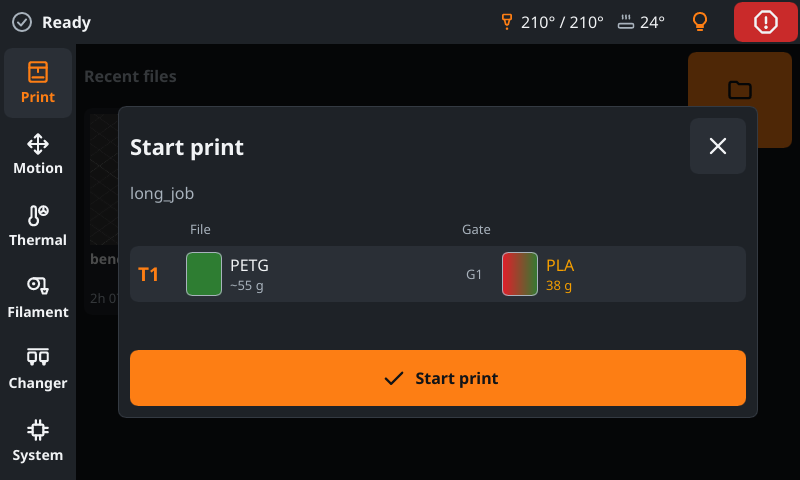
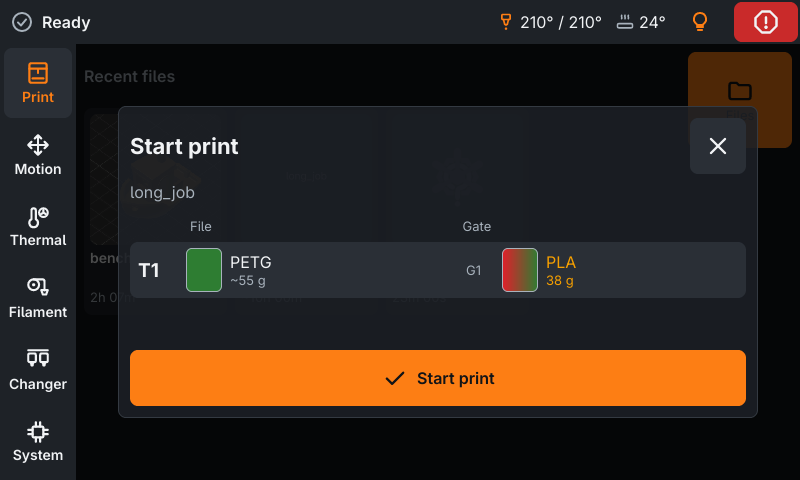
docs: one level for every way to install; refresh screenshots

diff --git a/docs/install.md b/docs/install.md
@@ -3,29 +3,34 @@
 FreakyMate is young software: the note in the [README](../README.md) applies to every build and every way of
 installing it. What the host needs: [Requirements and hardware](hardware.md#requirements).
 
-## Release and pre-release
+Ways to run it: on the [printer host](#printer-host) (the main use case), on an [Android](#android) phone or tablet, as
+[Debian or Arch package](#packages), or in a [desktop window](#desktop-linux-windows) on Linux or Windows.
 
-The [releases page](https://github.com/freakydude/freakymate/releases) offers two kinds of builds:
+## Which build
 
-| Build           | What it is                                                                                                                                  |
-| --------------- | ------------------------------------------------------------------------------------------------------------------------------------------- |
-| **Pre-release** | Always the current state of `main`. Every merged change replaces it, so it has the newest functions first.                                 |
-| **Release**     | From time to time I tag a state of `main` as release `vX.Y.0`, when a set of changes feels finished. Fewer updates, more time in use.       |
+The [releases page](https://github.com/freakydude/freakymate/releases) offers two kinds of builds, and every open pull
+request is built as well:
 
-Neither is an untested nightly: a change only reaches `main` through a reviewed pull request whose automated checks
-(tests, builds and packages for all targets) are green, and a release is a state that was the pre-release before.
-Beyond that, testing on real printers is limited to a few machines (see [Requirements and hardware](hardware.md)), so
-the note in the README applies to both builds.
+| Build            | What it is                                                                          | Where                                                                                            |
+| ---------------- | ----------------------------------------------------------------------------------- | ------------------------------------------------------------------------------------------------ |
+| **Release**      | A tagged state of `main` (`vX.Y.0`), when a set of changes feels finished. Fewer updates, more time in use. | [Releases](https://github.com/freakydude/freakymate/releases/latest), update channel `stable` |
+| **Pre-release**  | Always the latest `main`, replaced by every merged change. The newest functions first.                      | [Releases](https://github.com/freakydude/freakymate/releases), update channel `beta`          |
+| **Pull request** | The state of an open pull request, to try a change before it is merged.             | Artifacts of the pull request's CI run (needs a GitHub login), see below                      |
 
-**Builds of a pull request.** Every open pull request is built as well. The packages (`packages-<target>`, the same
-zips, `.deb` and Arch packages as a release) are listed under Artifacts on the page of its CI run; a pull request from a branch
-of this repository also gets a comment with the link. Downloading them needs a GitHub login.
-Install such a zip by hand as in step 2 below. Moonraker does not offer pull request builds as updates: on the `beta`
-channel the next pre-release replaces it, on `stable` the next release. Pick the release if you want few updates, the
-pre-release if you want to follow the development; the [update channel](#updates-and-channels) decides which one
-Moonraker installs.
+Neither release nor pre-release is an untested nightly: a change only reaches `main` through a reviewed pull request
+whose automated checks (tests, builds and packages for all targets) are green, and a release is a state that was the
+pre-release before. Beyond that, testing on real printers is limited to a few machines (see
+[Requirements and hardware](hardware.md)), so the note in the README applies to both builds. Pick the release if you
+want few updates, the pre-release if you want to follow the development; the
+[update channel](#updates-and-channels) decides which one Moonraker installs.
 
-## Install on the printer host
+**Builds of a pull request.** The packages (`packages-<target>`, the same zips, `.deb` and Arch packages as a release)
+are listed under Artifacts on the page of its CI run; a pull request from a branch of this repository also gets a
+comment with the link. Downloading them needs a GitHub login. Install such a zip by hand as described under
+[Printer host](#printer-host). Moonraker does not offer pull request builds as updates: on the `beta` channel the next
+pre-release replaces it, on `stable` the next release.
+
+## Printer host
 
 This is the main use case: FreakyMate runs on the host of the printer (Raspberry Pi OS, Armbian or another
 Debian- or Ubuntu-based system with the display attached), starts fullscreen on the display at boot and updates itself
@@ -56,7 +61,7 @@ architecture and packages first and stops with a message if something does not f
    ```
 
 2. Or by hand: download the zip for your architecture from the
-   [releases](https://github.com/freakydude/freakymate/releases) (release or pre-release, see above), unpack it and
+   [releases](https://github.com/freakydude/freakymate/releases) (release or pre-release, see [Which build](#which-build)), unpack it and
    run the installer:
 
    ```bash
@@ -68,22 +73,90 @@ architecture and packages first and stops with a message if something does not f
 
    The installer
    - installs the packages from `system-dependencies.json` (among them `cage`, a minimal Wayland kiosk compositor),
-   - copies the program to `~/freakymate` and creates the systemd service `freakymate` (fullscreen on `tty1`). cage
-     needs a DRM/KMS device (`/dev/dri/card*`). Only on systems without one, such as a small display with only a
-     framebuffer driver (fbtft, e.g. `fb_st7796s`), the service uses a fallback instead: FreakyMate draws straight to
-     `/dev/fbN` without cage (`--framebuffer`, software rendering), and the text console is detached from the
-     framebuffer while it runs. Rotate such a display in its driver (e.g. `armbianEnv.txt`); touch rotation is not
-     handled yet. Run the installer again after changing the display,
+   - copies the program to `~/freakymate` and creates the systemd service `freakymate` (fullscreen on `tty1`, through
+     the kiosk compositor `cage`). On systems without a DRM/KMS device it uses the
+     [framebuffer fallback](#framebuffer-fallback) instead. Run the installer again after changing the display,
    - allows brightness and screen standby for the group `video` (udev rule `70-freakymate-backlight.rules`; only
      displays with a controllable backlight have one, see [Configuration](configuration.md#brightness-and-standby)),
    - registers it with Moonraker's update manager (`[update_manager freakymate]` in `moonraker.conf`, service in
      `moonraker.asvc`) and restarts Moonraker.
 
-   Options: `-m <moonraker url>`, `-d <printer_data folder>` (default `~/printer_data`), `-c stable|beta` (update channel, see below).
+   Options: `-m <moonraker url>`, `-d <printer_data folder>` (default `~/printer_data`), `-c stable|beta` (update channel, see [Updates and channels](#updates-and-channels)).
    Run again, it keeps the address and folder of the existing installation unless you give them.
    Settings go to `printer_data/config/freakymate.conf` (TOML), next to the Klipper configs, so they can be edited in
    Mainsail or Fluidd (see [Configuration](configuration.md#settings-file)). The log is `printer_data/logs/freakymate.log` (Mainsail: Machine → logs), see [Configuration](configuration.md#log).
    To remove it again, see [Uninstall](#uninstall).
+
+### Framebuffer fallback
+
+`cage` needs a DRM/KMS device (`/dev/dri/card*`). Small displays with only a framebuffer driver (SPI, fbtft, e.g.
+`fb_st7796s`) have none. On such a system the installer sets up the service differently: FreakyMate draws straight to
+`/dev/fbN` without `cage` (`--framebuffer`, software rendering, see [Configuration](configuration.md#command-line)), and
+the text console is detached from the framebuffer while it runs. Rotate such a display in its driver (e.g.
+`armbianEnv.txt`); touch rotation is not handled yet. This is a fallback: HDMI and DSI displays use the normal kiosk.
+
+## Android
+
+An old Android phone or tablet near the printer can serve as touch screen: the same UI, in landscape. It needs Android
+7.0 or newer on a 64-bit ARM device, and Moonraker must be reachable over the home network (plain `http`/`ws`). So far
+it has been tried in the Android emulator and on a real phone with a printer, not yet on many devices.
+
+1. Download `freakymate-<version>-arm64-v8a-prod-release.apk` from the latest
+   [pre-release](https://github.com/freakydude/freakymate/releases) and open it on the device; allow installing from
+   unknown sources when Android asks.
+2. Updates: add the repository `freakydude/freakymate` to [Obtainium](https://github.com/ImranR98/Obtainium) and enable
+   pre-releases.
+
+For a bug report, Settings has "Export log": it copies the log of the last days into one text file you can attach to the
+issue. On Android 10 and newer it lands in `Download/FreakyMate`; on Android 7 to 9 in the app's own folder
+(`Android/data/de.freakydu.freakymate/files/Download`), which the screen names after the export.
+
+The APK is signed with a release key; `apksigner verify --print-certs <apk>` shows the SHA-256 fingerprint of its
+certificate, which must be <!-- TODO Frank: SHA-256 fingerprint of the release certificate -->.
+
+The APK in the artifacts of a pull request (`…-dev-release.apk`) is a test build: it installs as a separate app,
+FreakyMate Dev, with its own settings, and leaves an installed FreakyMate alone.
+
+## Packages
+
+Besides the Moonraker route there are plain packages for Debian-based and Arch-based systems:
+
+- **Debian package**: each release contains `freakymate_<version>_<arch>.deb` (`amd64`, `arm64`, `armhf`). apt installs
+  the dependencies and removes the package cleanly, but Moonraker does **not** update it, install newer `.deb` files
+  yourself. Use either the zip installer or the package, not both (they would compete for `tty1`).
+
+  ```bash
+  sudo apt install ./freakymate_<version>_arm64.deb
+  sudo systemctl disable getty@tty1                # free tty1 for the kiosk
+  sudo usermod -aG video $USER                  # brightness and standby, if the display has a backlight
+  sudo usermod -aG i2c $USER                    # the same for a monitor on DDC/CI, with `ddcutil` installed
+  sudo systemctl enable --now freakymate@$USER  # fullscreen on tty1 as this user
+  # remove again (stops and disables all freakymate@ instances)
+  sudo apt remove freakymate && sudo systemctl enable getty@tty1
+  ```
+
+- **Arch Linux package**: each release also contains `freakymate-<version>-1-<arch>.pkg.tar.zst` for `x86_64`,
+  `aarch64` and `armv7h` (Arch Linux ARM). It is built in CI from the same binary as the `.deb`, with the same files and kiosk
+  service, and has had little testing. There is no repository: download the file and update by installing the next one.
+  As with the `.deb`, use either the zip installer or the package, not both (they would compete for `tty1`).
+
+  ```bash
+  sudo pacman -U freakymate-<version>-1-x86_64.pkg.tar.zst
+  sudo systemctl disable getty@tty1                # free tty1 for the kiosk
+  sudo systemctl enable --now freakymate@$USER     # fullscreen on tty1 as this user
+  # remove again
+  sudo pacman -R freakymate && sudo systemctl enable getty@tty1
+  ```
+
+## Desktop (Linux, Windows)
+
+On a desktop (Linux PC, Raspberry Pi OS with desktop, Windows) the program opens as a normal window and talks to any
+Moonraker over the network. On Debian and Ubuntu install the [`.deb`](#packages) and start FreakyMate from the
+application menu or with `freakymate` in a terminal (skip the `systemctl` lines, they set up the kiosk); on Windows
+unpack `freakymate-x86_64-pc-windows-msvc.zip` and run `freakymate.exe`. There is no Windows installer yet. Set the
+Moonraker address on System → Settings or with `-m` (default `http://127.0.0.1:7125`). For fullscreen with a mouse,
+switch on Fullscreen on System → Settings → Display; `-f` is the kiosk mode for a touch screen and hides the mouse
+pointer.
 
 ## Updates and channels
 
@@ -130,42 +203,4 @@ gives `tty1` back to the login console. It keeps the system packages (`cage`, `s
 `printer_data/config/freakymate.conf`, the log and a stored Moonraker login (`~/.config/freakymate/credentials.json`);
 delete those by hand if you no longer need them.
 
-Installed as Debian package: `sudo apt remove freakymate && sudo systemctl enable getty@tty1` (see below).
-
-## Packages and desktop use
-
-Besides the Moonraker route there are plain packages, for example to try it on a desktop or any other device:
-
-- **Debian package**: each release contains `freakymate_<version>_<arch>.deb` (`amd64`, `arm64`, `armhf`). apt installs
-  the dependencies and removes the package cleanly, but Moonraker does **not** update it, install newer `.deb` files
-  yourself. Use either the zip installer or the package, not both (they would compete for `tty1`).
-
-  ```bash
-  sudo apt install ./freakymate_<version>_arm64.deb
-  sudo systemctl disable getty@tty1                # free tty1 for the kiosk
-  sudo usermod -aG video $USER                  # brightness and standby, if the display has a backlight
-  sudo usermod -aG i2c $USER                    # the same for a monitor on DDC/CI, with `ddcutil` installed
-  sudo systemctl enable --now freakymate@$USER  # fullscreen on tty1 as this user
-  # remove again (stops and disables all freakymate@ instances)
-  sudo apt remove freakymate && sudo systemctl enable getty@tty1
-  ```
-
-- **Arch Linux package**: each release also contains `freakymate-<version>-1-<arch>.pkg.tar.zst` for `x86_64`,
-  `aarch64` and `armv7h` (Arch Linux ARM). It is built in CI from the same binary as the `.deb`, with the same files and kiosk
-  service, and has had little testing. There is no repository: download the file and update by installing the next one.
-  As with the `.deb`, use either the zip installer or the package, not both (they would compete for `tty1`).
-
-  ```bash
-  sudo pacman -U freakymate-<version>-1-x86_64.pkg.tar.zst
-  sudo systemctl disable getty@tty1                # free tty1 for the kiosk
-  sudo systemctl enable --now freakymate@$USER     # fullscreen on tty1 as this user
-  # remove again
-  sudo pacman -R freakymate && sudo systemctl enable getty@tty1
-  ```
-
-- **Windowed mode on a desktop** (Linux PC, Raspberry Pi OS with desktop, Windows): the program opens as a normal window
-  and talks to any Moonraker over the network. On Debian and Ubuntu install the `.deb` and start FreakyMate from the
-  application menu or with `freakymate` in a terminal (skip the `systemctl` lines above, they set up the kiosk); on Windows unpack
-  `freakymate-x86_64-pc-windows-msvc.zip` and run `freakymate.exe`. There is no Windows installer yet. Set the
-  Moonraker address on System → Settings or with `-m` (default `http://127.0.0.1:7125`). For fullscreen with a mouse,
-  switch on Fullscreen on System → Settings → Display; `-f` is the kiosk mode for a touch screen and hides the mouse pointer.
+Installed as Debian package: `sudo apt remove freakymate && sudo systemctl enable getty@tty1` (see [Packages](#packages)).

diff --git a/README.md b/README.md
@@ -57,38 +57,13 @@ The script picks the build for your system, installs the few packages it needs a
 starts on the display at every boot, and new versions show up in the update list of Mainsail, Fluidd and its own
 System page.
 
-Pre-release channel, install by hand, Debian and Arch Linux packages, desktop window and uninstall:
-[Install and update](docs/install.md).
+Other ways to run it, all described in [Install and update](docs/install.md):
 
-### Android
-
-An old Android phone or tablet near the printer can serve as touch screen: the same UI, in landscape. It needs Android 7.0
-or newer on a 64-bit ARM device, and Moonraker must be reachable over the home network (plain `http`/`ws`). So far it has
-been tried in the Android emulator only, not yet on many real devices.
-
-1. Download `freakymate-<version>-arm64-v8a-prod-release.apk` from the latest
-   [pre-release](https://github.com/freakydude/freakymate/releases) and open it on the device; allow installing from
-   unknown sources when Android asks.
-2. Updates: add the repository `freakydude/freakymate` to [Obtainium](https://github.com/ImranR98/Obtainium) and enable
-   pre-releases.
-
-For a bug report, Settings has "Export log": it copies the log of the last days into one text file you can attach to the
-issue. On Android 10 and newer it lands in `Download/FreakyMate`; on Android 7 to 9 in the app's own folder
-(`Android/data/de.freakydu.freakymate/files/Download`), which the screen names after the export.
-
-The APK is signed with a release key; `apksigner verify --print-certs <apk>` shows the SHA-256 fingerprint of its
-certificate, which must be <!-- TODO Frank: SHA-256 fingerprint of the release certificate -->.
-
-The APK in the artifacts of a pull request (`…-dev-release.apk`) is a test build: it installs as a separate app,
-FreakyMate Dev, with its own settings, and leaves an installed FreakyMate alone.
-
-## Builds
-
-| Build            | What it is                                                                                    | Where                                                                       |
-| ---------------- | --------------------------------------------------------------------------------------------- | --------------------------------------------------------------------------- |
-| **Release**      | A tagged state of `main` (`vX.Y.0`), when a set of changes feels finished                     | [Releases](https://github.com/freakydude/freakymate/releases/latest), update channel `stable` |
-| **Pre-release**  | Always the latest `main`, replaced by every merged change                                     | [Releases](https://github.com/freakydude/freakymate/releases), update channel `beta` |
-| **Pull request** | The state of an open pull request, to try a change before it is merged                        | Artifacts of the pull request's CI run (needs a GitHub login), see [Install](docs/install.md#release-and-pre-release) |
+- [Android phone or tablet](docs/install.md#android) as touch screen near the printer
+- [Desktop window](docs/install.md#desktop-linux-windows) on Linux or Windows
+- [Debian and Arch Linux packages](docs/install.md#packages)
+- [Pre-release and pull request builds](docs/install.md#which-build),
+  [updates and channels](docs/install.md#updates-and-channels) and [uninstall](docs/install.md#uninstall)
 
 ## Documentation
 
@@ -96,7 +71,7 @@ FreakyMate Dev, with its own settings, and leaves an installed FreakyMate alone.
 | --------------------------------------------- | ------------------------------------------------------------------------------------- |
 | [Requirements and hardware](docs/hardware.md) | Host, display, plugins and typical hardware, what is not supported yet, privacy       |
 | [Features](docs/features.md)                  | Every page in detail: print, motion, thermal, filament, changer, system, Spoolman     |
-| [Install and update](docs/install.md)         | Release and pre-release, installer, update channels, uninstall, Debian package, desktop |
+| [Install and update](docs/install.md)         | Which build, printer host, Android, packages, desktop, update channels, uninstall      |
 | [Slicer and macros](docs/printer-setup.md)    | Thumbnails, layers, excluding objects; macros for filament, layer pause and tool spools |
 | [Configuration](docs/configuration.md)        | Command line, settings file, log, bug reports, Moonraker login, displays, network     |
 | [Troubleshooting](docs/troubleshooting.md)    | Black screen, no connection, touch, where the log is                                  |

diff --git a/docs/hardware.md b/docs/hardware.md
@@ -11,12 +11,12 @@ machine that one of these plugins drives is therefore covered, whatever its name
 | Printer           | [Klipper](https://www.klipper3d.org/) with [Moonraker](https://moonraker.readthedocs.io/), as set up by KIAUH, MainsailOS and similar |
 | Host system       | Debian 12 Bookworm or newer, Raspberry Pi OS Bookworm or newer (32 or 64 bit), Ubuntu 22.04 or newer, Armbian on these; glibc 2.35 or newer and the packages `cage` and `seatd` (the installer checks all of this). Debian 11 Bullseye is too old |
 | Host hardware     | Raspberry Pi, BTT CB1/CB2 and similar boards: `aarch64`, `armv7` or `x86_64`                                                         |
-| Display           | Any display the host drives (HDMI, DSI). Best at 5" or more with 800x480; other sizes are scaled. Small displays with only a framebuffer driver (SPI, `fbtft`) run through a fallback. Tested displays: see [below](#tested-setups) |
+| Display           | Any display the host drives (HDMI, DSI). Best at 5" or more with 800x480; other sizes are scaled. Small displays with only a framebuffer driver (SPI) run through a [fallback](install.md#framebuffer-fallback). Tested displays: see [below](#tested-setups) |
 | Touch             | A touch screen; a mouse and keyboard work as well                                                                                     |
 | Optional          | NetworkManager for the Wi-Fi settings, a controllable backlight for brightness and standby, the plugins below                         |
 
 FreakyMate can also run as a window on a Linux or Windows desktop and talk to a Moonraker over the network (see
-[Install and update](install.md#packages-and-desktop-use)).
+[Install and update](install.md#desktop-linux-windows)).
 
 ## Plugins and typical hardware
 
@@ -66,7 +66,7 @@ Displays: BTT HDMI5 (5", 800x480, HDMI), Raspberry Pi Touch Display v1 (7", 800x
 - **IDEX modes** (copy, mirror) and which head sits on which carriage.
 - **KTC** by TypQxQ (`ktc` objects): not read; tool macros `T<n>` still work.
 - **Kalico** (the Klipper fork) has not been tried.
-- **Touch rotation** in the framebuffer fallback; rotate the display in its driver.
+- **Touch rotation** in the [framebuffer fallback](install.md#framebuffer-fallback).
 - **HTTPS** to Moonraker: FreakyMate talks plain HTTP and WebSocket, like most home installations.
 - **Windows installer:** on Windows FreakyMate runs from the unpacked zip.
 - Own layouts for 7" and 4.3" displays are planned; until then the 800x480 layout is scaled.

diff --git a/docs/configuration.md b/docs/configuration.md
@@ -13,7 +13,7 @@ freakymate [--moonraker <url>] [--fullscreen] [--framebuffer] [--settings <file>
 | -------------------- | ------------------------------------------------------------------------------------------------ |
 | `-m, --moonraker`    | Moonraker address for this start, e.g. `http://printer.local:7125` (otherwise the saved setting) |
 | `-f, --fullscreen`   | Kiosk mode for a touch screen, as the services start it: fullscreen, no window frame, no mouse pointer |
-| `--framebuffer`      | Fallback for displays without DRM/KMS (Linux): draws straight to `/dev/fbN` without cage, implies `--fullscreen`. The installer uses it only when there is no `/dev/dri/card*` (see [Installation](install.md)) |
+| `--framebuffer`      | Fallback for displays without DRM/KMS (Linux): draws straight to `/dev/fbN` without cage, implies `--fullscreen`. See [Framebuffer fallback](install.md#framebuffer-fallback) |
 | `--settings`         | Settings file (TOML), default `~/.config/freakymate/settings.conf` (Windows: `%APPDATA%`). The installer passes `printer_data/config/freakymate.conf` |
 | `-l, --logfile`      | Log file, rotated daily like those of Klipper and Moonraker (default: stderr only). The installer passes `printer_data/logs/freakymate.log` |
 | `--report [FILE]`    | Writes a diagnostic report `freakymate-report.json` and exits, see [Bug reports](#bug-reports). Without FILE it goes to `printer_data/logs` (when the settings are in `printer_data/config`), otherwise to the current folder; FILE may also be a folder |
@@ -142,7 +142,7 @@ the password of a login goes over the network unencrypted.
 
 FreakyMate works best on a display of 5" or more at 800x480: the layout is made for that size. It has been tested on
 the BTT HDMI5 (5") and the Raspberry Pi Touch Display v1 (7", DSI), both 800x480, and on a TFT35 SPI display through
-the framebuffer fallback. In fullscreen, other resolutions show the same layout scaled up or down to fit, so
+the [framebuffer fallback](install.md#framebuffer-fallback). In fullscreen, other resolutions show the same layout scaled up or down to fit, so
 a 7" 1024x600 display fills its screen and a smaller one, say a 4.3" 480x272, shows everything, only smaller. A window on
 a desktop is never smaller than 800x480; a larger one shows more room instead of scaling (where a compositor forces a
 smaller window, the layout is fitted as in fullscreen). Apart from the TFT35, other sizes are not tested yet. Whether a small display is

diff --git a/docs/troubleshooting.md b/docs/troubleshooting.md
@@ -20,7 +20,7 @@ For more detail switch on `verbose_log` (see [Log](configuration.md#log)).
 - Check that the service runs: `systemctl status freakymate`, and read the end of the log.
 - Changed the display after installing? Run `~/freakymate/install.sh` again; it chooses between the normal kiosk
   (`cage`, needs `/dev/dri/card*`) and the framebuffer fallback for displays without DRM/KMS (see
-  [Install](install.md#install-on-the-printer-host)).
+  [Install](install.md#framebuffer-fallback)).
 - Something else on `tty1`? The installer disables the login console there; a second kiosk (for example a Debian
   package and the installer at the same time) competes for it. Use one of the two.
 - Graphics driver trouble: the environment variable `SLINT_BACKEND=winit-software` forces software rendering (see
@@ -41,8 +41,8 @@ The layout is made for 800x480 and scaled to other sizes in fullscreen. `SLINT_S
 
 ## Touch is rotated or off
 
-FreakyMate has no setting for touch rotation yet. In the framebuffer fallback, rotate the display in its driver
-(for example `armbianEnv.txt`); touch rotation is not handled there. Please tell me your display on Discord or in a
+FreakyMate has no setting for touch rotation yet; the [framebuffer fallback](install.md#framebuffer-fallback) says what
+applies there. Please tell me your display on Discord or in a
 [hardware support issue](https://github.com/freakydude/freakymate/issues/new/choose).
 
 ## A function is missing

diff --git a/docs/development.md b/docs/development.md
@@ -1,7 +1,7 @@
 # Development
 
 Rust stable (see `rust-toolchain.toml`). On Linux install `libfontconfig1-dev libxkbcommon-dev libinput-dev libudev-dev`
-(the last two for the framebuffer fallback, see [install.md](install.md)).
+(the last two for the framebuffer fallback, see [install.md](install.md#framebuffer-fallback)).
 Structure, data flow and conventions:
 [architecture.md](architecture.md). How pull requests are handled: [CONTRIBUTING.md](../CONTRIBUTING.md).
 
